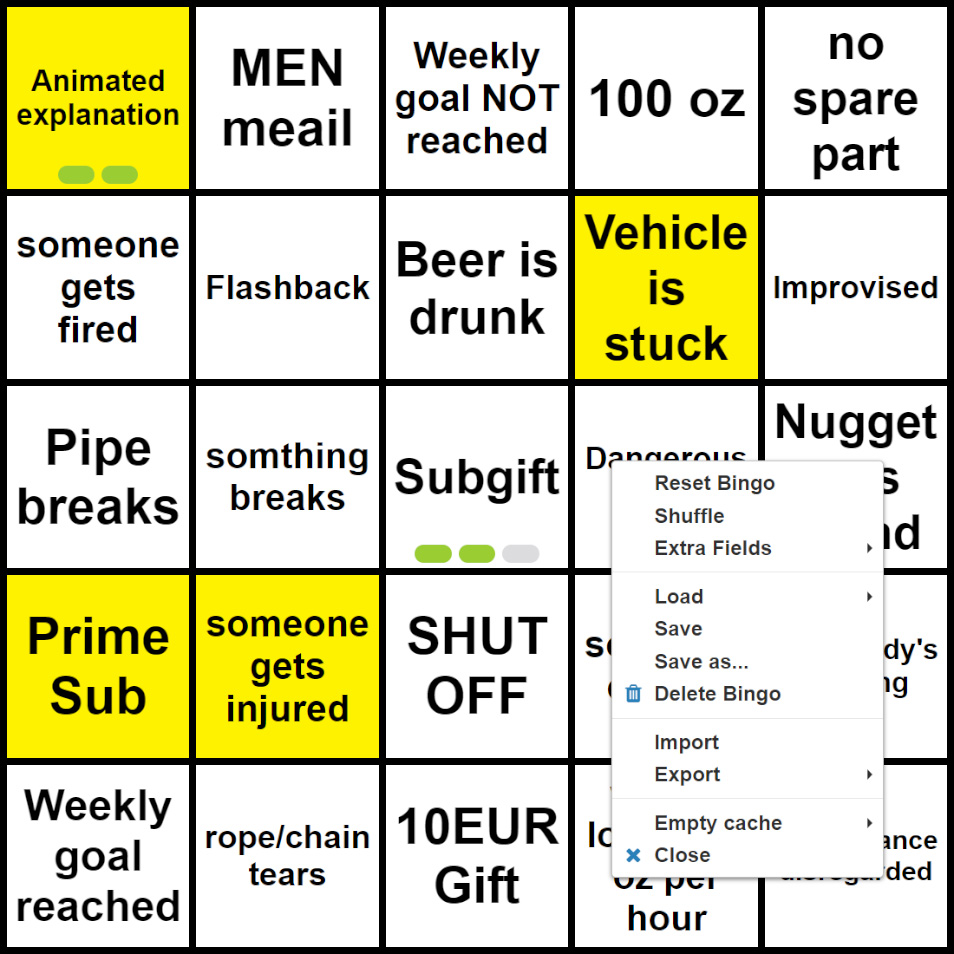
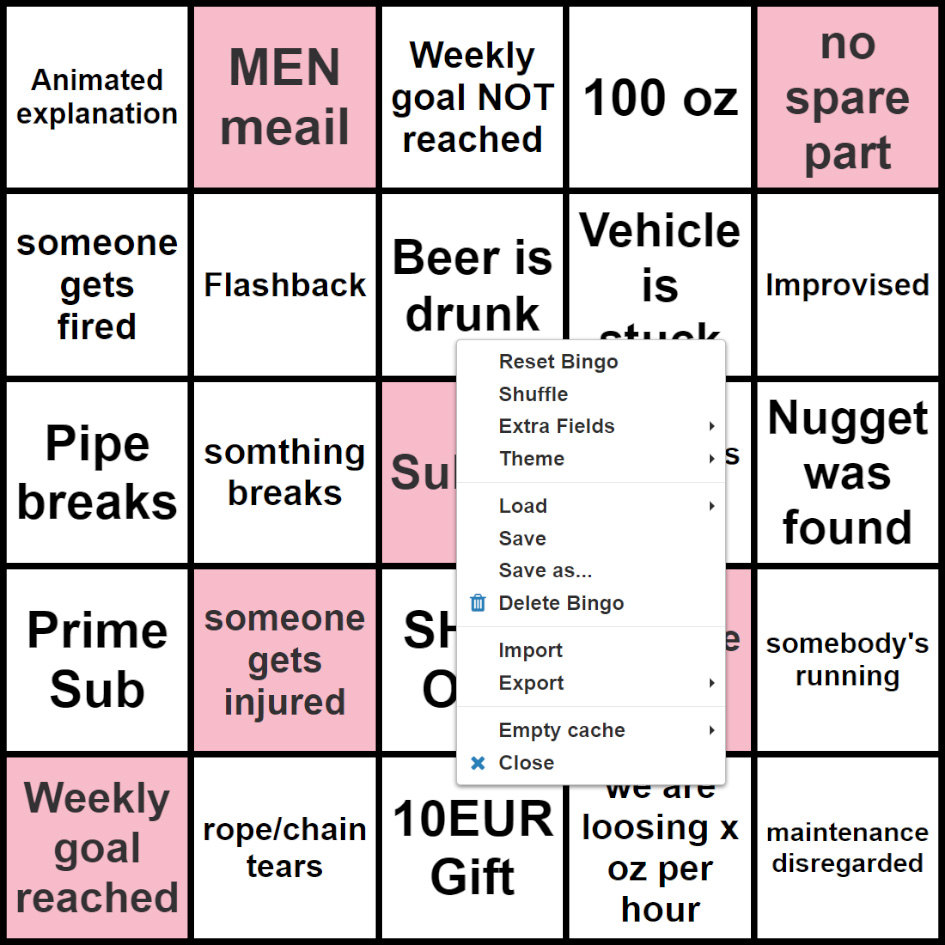
update

diff --git a/Bingo.html b/Bingo.html
@@ -4,7 +4,97 @@
 <title>Bingo</title>
 <meta charset="utf-8">
 <link href="jquery.contextMenu.css" rel="stylesheet">
-<style>	
+<style>
+:root {
+	--background-color: white;
+	--highlight-color: #FEF200;
+	--text-color: black;
+	--text-highlight: black;
+	--set-color: #DCDCDE;
+	--set-highlight-color: yellowgreen;
+}
+
+html[data-theme='Yellow'] {
+	--background-color: white;
+	--highlight-color: #FEF200;
+	--text-color: black;
+	--text-highlight: black;
+	--set-color: #DCDCDE;
+	--set-highlight-color: yellowgreen;
+}
+
+html[data-theme='Pink'] {
+	--background-color: white;
+	--highlight-color: #F7BCCA;
+	--text-color: black;
+	--text-highlight: #333133;
+	--set-color: #DCDCDE;
+	--set-highlight-color: #AE1F67;
+}
+
+html[data-theme='Red'] {
+	--background-color: white;
+	--highlight-color: #8F001D;
+	--text-color: black;
+	--text-highlight: #F0F0F1;
+	--set-color: #DCDCDE;
+	--set-highlight-color: #560011;
+}
+
+html[data-theme='Purple'] {
+	--background-color: white;
+	--highlight-color: #6A5776;
+	--text-color: #2e2633;
+	--text-highlight: white;
+	--set-color: #DCDCDE;
+	--set-highlight-color: #45394d;
+}
+
+html[data-theme='Lime'] {
+	--background-color: white; /* #c9ff05; */
+	--highlight-color: #bff205;	/*#324001;*/
+	--text-color: #324001;
+	--text-highlight: #324001;
+	--set-color: #DCDCDE;
+	--set-highlight-color: #465902;
+}
+
+html[data-theme='Light-Blue'] {
+	--background-color: #E2F6F7;
+	--highlight-color: #7DCEF7;
+	--text-color: #161637;
+	--text-highlight: #0a0a1a;
+	--set-color: #DCDCDE;
+	--set-highlight-color: #324001;
+}
+
+html[data-theme='Bluish-Grey'] {
+	--background-color: #E7ECF2;
+	--highlight-color: #A1AABB;
+	--text-color: #161637;
+	--text-highlight: #0a0a1a;
+	--set-color: #bac1d9;
+	--set-highlight-color: #526373;
+}
+
+html[data-theme='Green'] {
+	--background-color: #BBDCCB;
+	--highlight-color: #1D2327;
+	--text-color: #1D2327;
+	--text-highlight: #BBDCCB;
+	--set-color: #DCDCDE;
+	--set-highlight-color: yellowgreen;
+}
+
+html[data-theme='Light-Brown'] {
+	--background-color: #D9CBC2;
+	--highlight-color: #968C83;
+	--text-color: #373334;
+	--text-highlight: #F0F0F1;
+	--set-color: #DCDCDE;
+	--set-highlight-color: #937152;
+}
+
 body {
 	font-family: 'Arial';
 	font-size: 1.5em;
@@ -38,6 +128,7 @@ span {
 
 .box {
 	position: relative;
+	background-color: var(--background-color);
 	width: calc((100vh - 8px) / 5);
 	height: calc((100vh - 8px) / 5);
 	padding: 4%;
@@ -47,18 +138,19 @@ span {
 	display: flex;
 	justify-content: center;
 	align-items: center;
-	background-color: white;
+	color: var(--text-color);
 	text-align: center;
 	font-size: 5vw;
 	user-select: none;
 }
 
 .checked {
-	background-color: #FEF200;
+	background-color: var(--highlight-color);
+	color: var(--text-highlight);
 }
 
 .setchecked {
-	background-color: yellowgreen !important;
+	background-color: var(--set-highlight-color) !important;
 }
 
 .swap {
@@ -89,7 +181,7 @@ input[type=file] {
 	width: 20%;
 	margin: 0 2%;
 	border-radius: 999px;
-	background-color: #DCDCDE;
+	background-color: var(--set-color);
 }
 </style>
 </head>
@@ -135,18 +227,41 @@ var LoadedBingo;
 var bingofields;
 var nosavefiles = true;
 var selectedfield;
+var themes;
 
 $(function() {
 	resizeText();
 	readStorage();
 	updateListener();
 	contextMenu();
+	window.addEventListener("resize", resizeText);
+	let theme = localStorage.getItem("BingoTheme");
+	if(theme) {
+		loadTheme(theme);
+	}
 });
 
+function thememenu() {
+	let themenames = ["Yellow", "Pink", "Purple", "Red", "Lime", "Light-Blue", "Bluish-Grey", "Green", "Light-Brown"];
+	let n = themenames.length;
+	themes = new Object();
+
+	for(i=0; i<n; i++) {
+		let theme = themenames[i];
+		themes[i] = {"name": themenames[i], callback: function(key, options, ev) {loadTheme(theme);}};
+	}
+}
+
+function loadTheme(theme) {
+	document.documentElement.setAttribute('data-theme', theme);
+	localStorage.setItem("BingoTheme", theme);
+}
+
 function contextMenu() {
+	thememenu();
 	$.contextMenu({
 		selector: '.box',
-		autoHide: true,
+		autoHide: false,
 		callback: function(key, options, ev) {
 			//console.log(key);
 			switch(key) {
@@ -204,6 +319,7 @@ function contextMenu() {
 			"reset": {name: "Reset Bingo"},
 			"shuffle": {name: "Shuffle"},
 			"setof": {name: "Extra Fields", "items": {"setof0": {name: "keine"}, "setof1": {name: "1"},"setof2": {name: "2"},"setof3": {name: "3"},"setof4": {name: "4"}}},
+			"theme": {name: "Theme", "items": themes},
 			"sep1": "---------",
 			"load": {name: "Load", "items": bingofields, disabled: nosavefiles},
 			"save": {name: "Save", disabled: ((LoadedBingo === undefined) ? true : false)},
@@ -302,6 +418,10 @@ function copyClipboard() {
 function readStorage() {
     bingofields = new Object();
     keys = Object.keys(localStorage);
+	var index = keys.indexOf('BingoTheme');
+	if(index !== -1) {
+		keys.splice(index, 1);
+	}
     let n = keys.length;
 	//console.log(n);
 	if(n > 0) {

diff --git a/README.md b/README.md
@@ -40,6 +40,7 @@ click **Interact** to open control view.
 * Reset Bingo
 * Shuffle fields
 * Add up to 4 checkable extra fields per field
+* Style Themes
 * Save to Browser cache
 * Load from cache
 * Delete from cache
@@ -47,6 +48,9 @@ click **Interact** to open control view.
 * Copy to clipboard
 * Import as txt file
 
+<p align="center">
+<img src="https://github.com/Biernot200/Streamer-Bingo/blob/main/docs/themes.jpg" alt="drawing" width="600"/>
+</p>
 <p align="center">
 <img src="https://github.com/Biernot200/Streamer-Bingo/blob/main/docs/bingo2.jpg" alt="drawing" width="600"/>
 </p>
